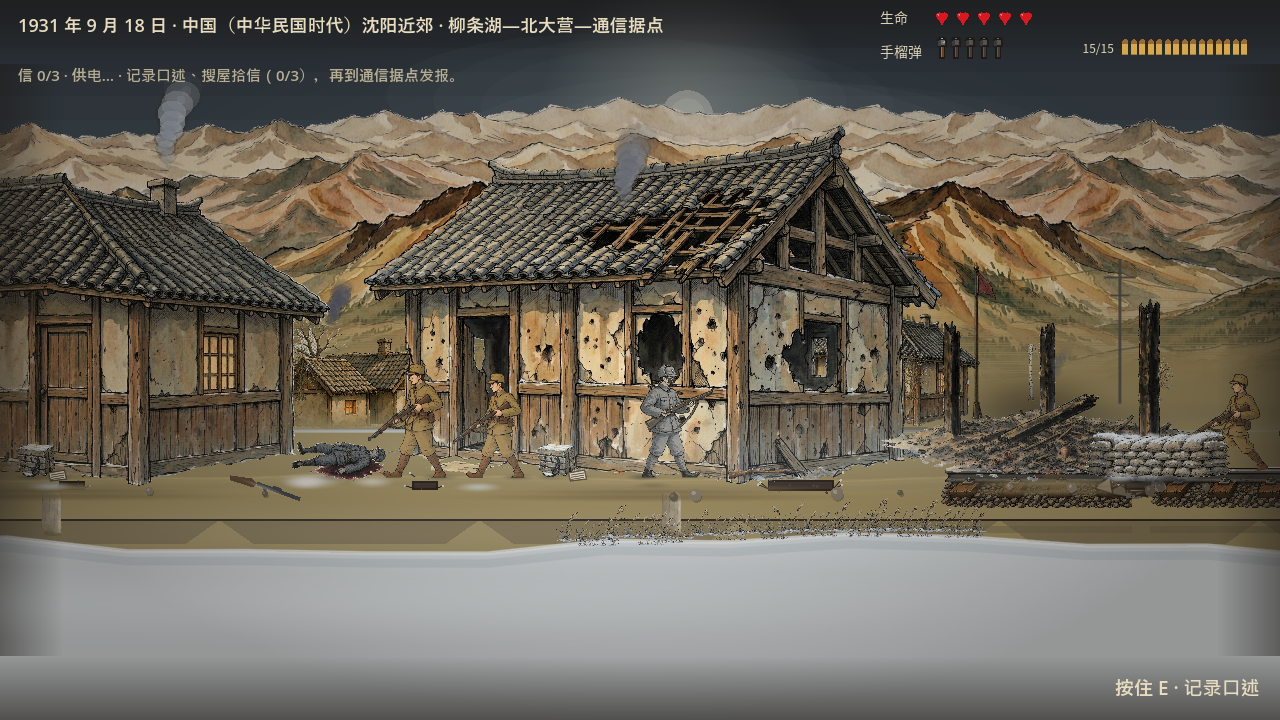
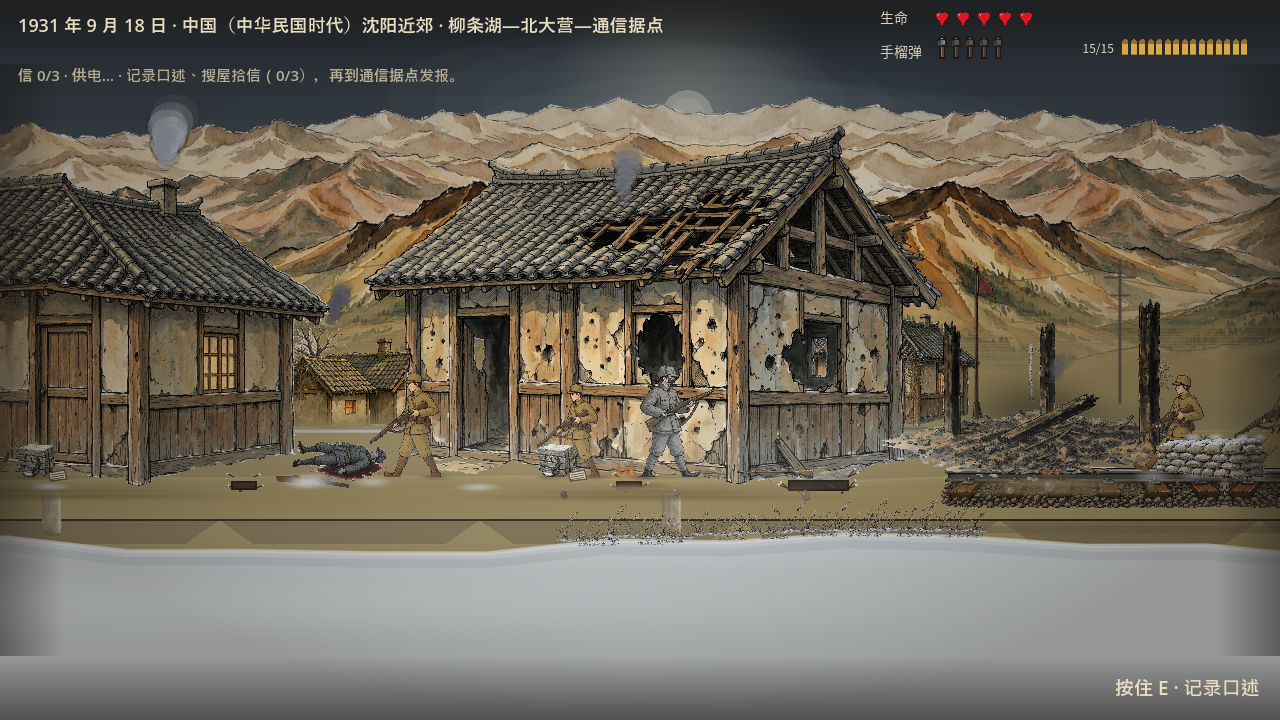
v3.88 · 九一八雪原地平线硬边修正（MeltTop 溶解，非用户误判的铁线网）
- 用户圈出的横贯全屏生硬直线实为 N918Level.DrawMid() 中雪原实心带顶边
  (世界 y=560) 的 DrawRect 硬上缘，并非铁线网（九一八关卡无任何 barbed wire 代码）
- 新增 MeltTop(snow)：在 560 之上叠 16 条细带，逐条 smoothstep alpha，最上一条
  alpha 趋近 0 化进雪原；每条 y 再做 ±0.6px 正弦抖动，与 MeltFoot/BandFade 同源
- dotnet build 0W/0E；CaptureN918/CaptureSkirmish 出真帧；python 扫描确认
  n918_08 y=497 横向跳变 frac 0.63→0.06，npc_skirmish 同位置 0.00，线已消除
- 画廊 7 张 N918 真帧同名覆盖，?v=3.87→3.88；README 补 v3.88 章节与近期更新要点

diff --git a/scripts/N918Level.cs b/scripts/N918Level.cs
@@ -2500,13 +2500,35 @@ public partial class N918Level : Node2D
             for (int i = 0; i < bands; i++)
             {
                 float t = (i + 0.5f) / bands;
-                DrawRect(new Rect2(-1400f, y + i * bh, WorldW + 3800f, bh + 0.7f),
-                    from.Lerp(to, t));
-            }
+            DrawRect(new Rect2(-1400f, y + i * bh, WorldW + 3800f, bh + 0.7f),
+                from.Lerp(to, t));
         }
+    }
 
-        // —— 中景：雪原、村落、电报杆、树线、烟 ——
-        private void DrawMid()
+    // 地面顶边溶解：照 MeltFoot 的思路，在实心带顶边(世界 560)之上叠一段
+    // 细条淡入。最上面的 band alpha 趋近 0，所以顶边是"化进去"而不是"切下去"——
+    // 那条横贯全屏的生硬直线就消失了。每条 y 再做一点正弦抖动，让过渡不死板。
+    // v3.88: 这正是对玩家圈出的"铁线网"那道线的修正（其实不是铁线网，是
+    // 雪原地平线被画成了尺子直的实心矩形上缘）。
+    private void MeltTop(Color snow)
+    {
+        const int bands = 16;
+        const float bottom = 560f;   // 与地面实心带顶边对齐
+        const float h = 16f;         // 向上溶解的高度
+        const float top = bottom - h;
+        for (int i = 0; i < bands; i++)
+        {
+            float t = (i + 0.5f) / bands;   // 0=最上(最淡) 1=最下(接实心带)
+            float a = Mathf.SmoothStep(0f, 1f, t);
+            if (a <= 0.004f) continue;
+            float wob = Mathf.Sin(i * 1.3f) * 0.6f;
+            DrawRect(new Rect2(-1400f, top + i * (h / bands) + wob, WorldW + 3800f, h / bands + 0.7f),
+                new Color(snow, a));
+        }
+    }
+
+    // —— 中景：雪原、村落、电报杆、树线、烟 ——
+    private void DrawMid()
         {
             var snow = new Color(0.62f, 0.55f, 0.37f);
 
@@ -2520,7 +2542,14 @@ public partial class N918Level : Node2D
             // 90px instead of 60 — no leftover bright ledge above the plain.
             // v3.13: that single gradient rect is gone (see MeltFoot below) —
             // its top edge was the hard line across the screen.
+            // v3.88: the solid band's OWN top edge (world y=560) is still a
+            // ruler-straight line across the whole screen — the "铁线网" the
+            // player circled. MeltTop() dissolves it: 16 thin bands above 560,
+            // each its own alpha on a smoothstep, topmost ~0, so the edge melts
+            // into the snow plain instead of cutting across. Not barbed wire —
+            // N918 has no barbed wire code at all; it was the horizon line.
             DrawRect(Full(-1400, 560, 258), snow);
+            MeltTop(snow);
 
             // 雪原起伏的亮边与投影
             // v2.9: tone it down. At 0.65 alpha this crest also ran as a
